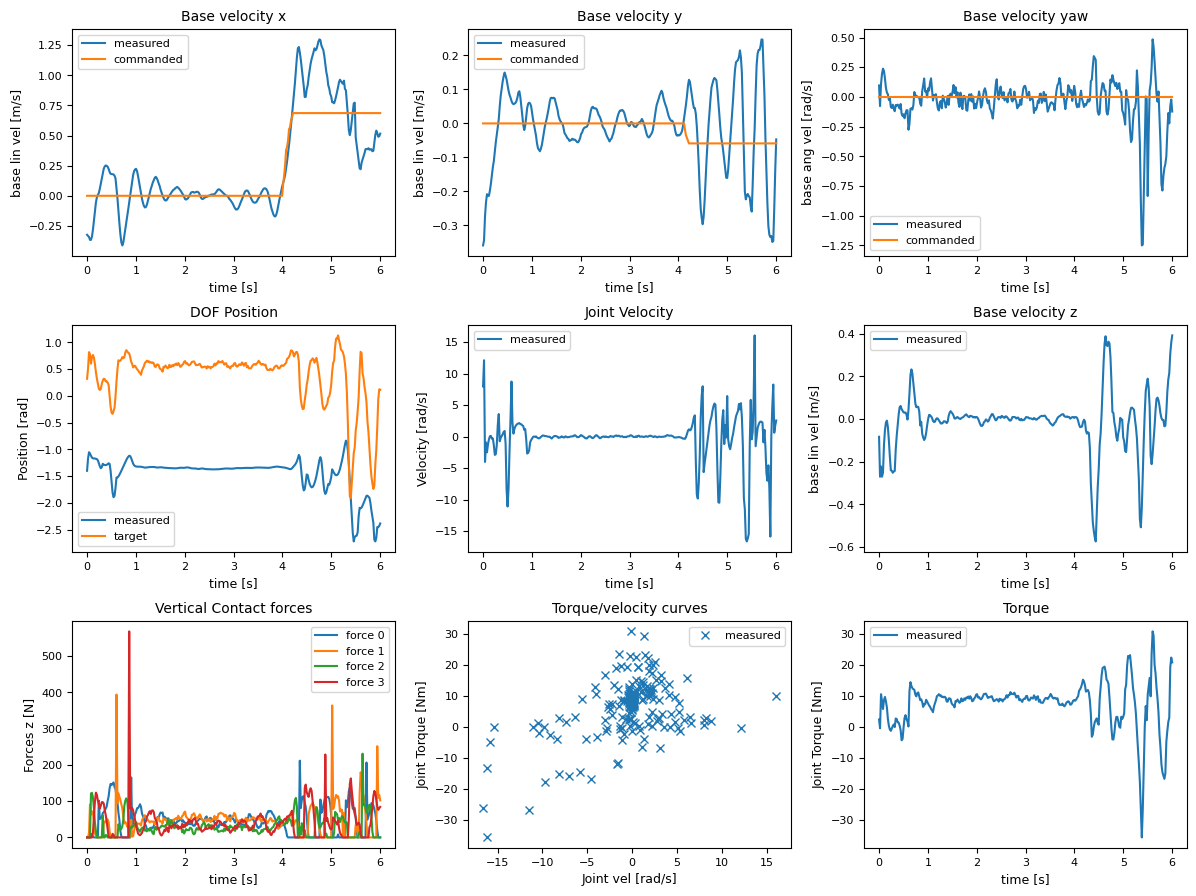
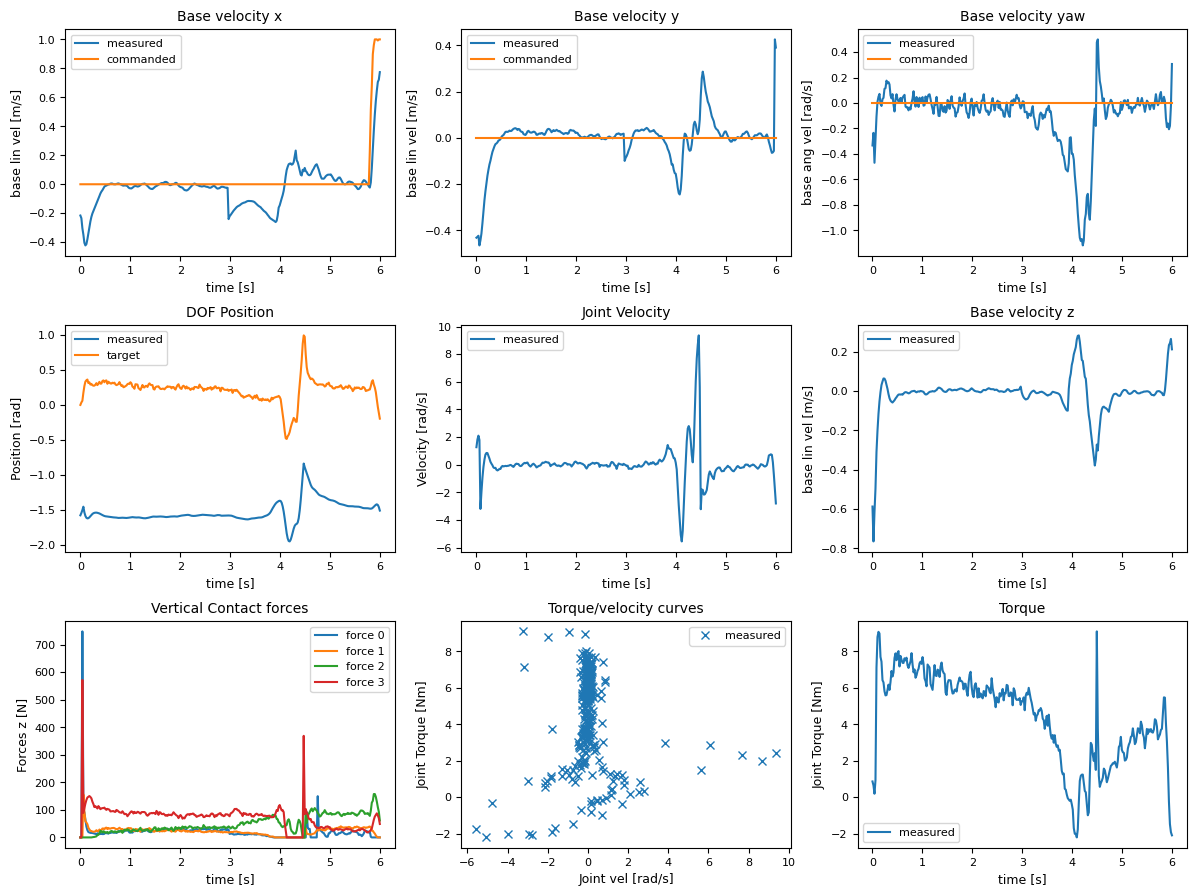
1

diff --git a/rsl_rl/algorithms/ppo_ts_depth.py b/rsl_rl/algorithms/ppo_ts_depth.py
@@ -62,10 +62,10 @@ class PPO_TSDepth(PPO):
         self.actor_critic = actor_critic
         self.actor_critic.to(self.device)
         self.storage = None  # initialized later
-        self.teacher_params = list(self.actor_critic.teacher_ac.actor.parameters()) + \
-                            list(self.actor_critic.teacher_ac.privilege_encoder.parameters()) + \
-                            list(self.actor_critic.teacher_ac.critic.parameters()) + \
-                            [self.actor_critic.teacher_ac.std]
+        self.teacher_params = list(self.actor_critic.actor.parameters()) + \
+                            list(self.actor_critic.privilege_encoder.parameters()) + \
+                            list(self.actor_critic.critic.parameters()) + \
+                            [self.actor_critic.std]
         self.teacher_optimizer = optim.Adam(self.teacher_params, lr=learning_rate)  # do not consider paramters of student encoder during RL update
         if not self.distillation:
             self.student_params = list(self.actor_critic.depth_history_encoder.parameters())
@@ -90,18 +90,16 @@ class PPO_TSDepth(PPO):
         dummy_infer = self.actor_critic.depth_history_encoder(obs[0:self.num_student], depth_image_features)
         self.transition.hidden_states = self.actor_critic.get_hidden_states()
         if not self.distillation: # teacher update, all envs are teacher envs
-            self.transition.actions = self.actor_critic.act(obs, privileged_obs).detach()
-            self.transition.actions_log_prob = self.actor_critic.teacher_ac.get_actions_log_prob(self.transition.actions).detach()
-            self.transition.action_mean = self.actor_critic.teacher_ac.action_mean.detach()
-            self.transition.action_sigma = self.actor_critic.teacher_ac.action_std.detach()
-            self.transition.values = self.actor_critic.teacher_ac.evaluate(critic_obs).detach()
+            self.transition.actions = self.actor_critic.act(obs, None, privileged_obs, 
+                                                            "teacher", None, None).detach()
         else: # student distillation, first num_student envs are student envs, the rest are teacher envs
             self.transition.actions = torch.zeros((obs.shape[0], self.storage.actions_shape[0]), device=self.device) # dummy actions for all envs
-            self.transition.actions[0:self.num_student] = self.actor_critic.act(obs[0:self.num_student], depth_image_features).detach()
-            self.transition.actions_log_prob = self.actor_critic.get_actions_log_prob(self.transition.actions).detach()
-            self.transition.action_mean = self.actor_critic.action_mean.detach()
-            self.transition.action_sigma = self.actor_critic.action_std.detach()
-            self.transition.values = self.actor_critic.evaluate(critic_obs).detach()
+            self.transition.actions[0:self.num_student] = self.actor_critic.act(obs[0:self.num_student], depth_image_features, None,
+                                                                                "student", None, None).detach()
+        self.transition.actions_log_prob = self.actor_critic.get_actions_log_prob(self.transition.actions).detach()
+        self.transition.action_mean = self.actor_critic.action_mean.detach()
+        self.transition.action_sigma = self.actor_critic.action_std.detach()
+        self.transition.values = self.actor_critic.evaluate(critic_obs).detach()
         # need to record obs and critic_obs before env.step()
         self.transition.observations = obs.detach()
         self.transition.privileged_observations = privileged_obs.detach()
@@ -136,14 +134,14 @@ class PPO_TSDepth(PPO):
                 hid_states_batch, masks_batch in generator:
                 
                 # Teacher update
-                self.actor_critic.teacher_ac.act(
-                    obs_batch, privileged_obs_batch)
-                actions_log_prob_batch = self.actor_critic.teacher_ac.get_actions_log_prob(
+                self.actor_critic.act(
+                    obs_batch, None, privileged_obs_batch, "teacher", None, None)
+                actions_log_prob_batch = self.actor_critic.get_actions_log_prob(
                     actions_batch)
-                value_batch = self.actor_critic.teacher_ac.evaluate(critic_obs_batch)
-                entropy_batch = self.actor_critic.teacher_ac.entropy
-                mu_batch = self.actor_critic.teacher_ac.action_mean
-                sigma_batch = self.actor_critic.teacher_ac.action_std
+                value_batch = self.actor_critic.evaluate(critic_obs_batch)
+                entropy_batch = self.actor_critic.entropy
+                mu_batch = self.actor_critic.action_mean
+                sigma_batch = self.actor_critic.action_std
                 
                 ## Teacher KL, adapt learning rate
                 if self.desired_kl != None and self.schedule == 'adaptive':
@@ -211,25 +209,12 @@ class PPO_TSDepth(PPO):
                     
                 with torch.no_grad(): # don't backpropagate through the encoder targets
                     unpadded_student_privileged_obs_batch = unpad_trajectories(student_privileged_obs_batch, masks_batch)
-                    latent_targets = self.actor_critic.teacher_ac.privilege_encoder(unpadded_student_privileged_obs_batch)
+                    latent_targets = self.actor_critic.privilege_encoder(unpadded_student_privileged_obs_batch)
 
                 latent_reconstruction_loss = nn.functional.mse_loss( # use mse loss
                     latent, latent_targets)
                 
-                # # update distribution for action reconstruction loss
-                # self.actor_critic.act(student_obs_batch, depth_features_batch, hid_states_batch, masks_batch)
-                # student_mu_batch = self.actor_critic.action_mean
-                
-                # with torch.no_grad(): # don't backpropagate through the encoder targets
-                #     unpadded_obs_batch = unpad_trajectories(student_obs_batch, masks_batch)
-                #     teacher_actions = self.actor_critic.teacher_ac.act_inference(
-                #         unpadded_obs_batch, unpadded_student_privileged_obs_batch
-                #     )
-                
-                # action_reconstruction_loss = nn.functional.mse_loss(
-                #     student_mu_batch, teacher_actions
-                # )
-                loss = latent_reconstruction_loss #+ action_reconstruction_loss
+                loss = latent_reconstruction_loss
                 self.student_optimizer.zero_grad()
                 loss.backward()
                 nn.utils.clip_grad_norm_(
@@ -237,11 +222,8 @@ class PPO_TSDepth(PPO):
                 self.student_optimizer.step()
                 
                 mean_latent_reconstruction_loss += latent_reconstruction_loss.item()
-                mean_action_reconstruction_loss += 0
         
         else: # student distillation
-            # freeze teacher network during student encoder update
-            self.actor_critic.teacher_ac.eval()
             # student encoder update
             generator = self.storage.student_mini_batch_generator(
                     self.num_mini_batches, self.num_learning_epochs)
@@ -250,7 +232,8 @@ class PPO_TSDepth(PPO):
                 advantages_batch, old_mu_batch, old_sigma_batch, hid_states_batch, masks_batch in generator:
                 
                 # Student RL update
-                self.actor_critic.act(obs_batch, depth_image_features_batch, hid_states_batch, masks_batch)
+                self.actor_critic.act(obs_batch, depth_image_features_batch, None, 
+                                      "student", hid_states_batch, masks_batch)
                 actions_log_prob_batch = self.actor_critic.get_actions_log_prob(
                     actions_batch)
                 value_batch = self.actor_critic.evaluate(critic_obs_batch)
@@ -302,19 +285,19 @@ class PPO_TSDepth(PPO):
                                                                 masks=masks_batch)
                     
                 with torch.no_grad(): # don't backpropagate through the encoder targets
-                    latent_targets = self.actor_critic.teacher_ac.privilege_encoder(privileged_obs_batch)
+                    latent_targets = self.actor_critic.privilege_encoder(privileged_obs_batch)
 
                 latent_reconstruction_loss = nn.functional.mse_loss( # use mse loss
                     latent, latent_targets)
                 
                 with torch.no_grad(): # don't backpropagate through the encoder targets
                     unpadded_obs_batch = unpad_trajectories(obs_batch, masks_batch)
-                    teacher_actions = self.actor_critic.teacher_ac.act_inference(
+                    teacher_actions_mean = self.actor_critic.act_teacher(
                         unpadded_obs_batch, privileged_obs_batch
                     )
                 
                 action_reconstruction_loss = nn.functional.mse_loss(
-                    mu_batch, teacher_actions
+                    mu_batch, teacher_actions_mean
                 )
                 
                 loss = self.value_loss_coef * value_loss + surrogate_loss \

diff --git a/rsl_rl/runners/ts_depth_runner.py b/rsl_rl/runners/ts_depth_runner.py
@@ -47,18 +47,18 @@ class TSDepthRunner(OnPolicyRunner):
                                                     **self.policy_cfg).to(self.device)
         if self.distillation:
             print(f"Loading teacher model from {teacher_model_path}")
-            loaded_dict = torch.load(teacher_model_path)
-            loaded_actor_critic = ActorCriticTSDepth(self.env.num_obs,
-                                                    self.env.num_actions,
-                                                    self.env.num_privileged_obs,
-                                                    self.env.num_latent_dims,
-                                                    self.env.num_critic_obs,
-                                                    self.env.depth_image_resolution,
-                                                    **self.policy_cfg).to(self.device)
-            loaded_actor_critic.load_state_dict(loaded_dict['model_state_dict'])
-            # copy actor, critic
-            actor_critic.actor.load_state_dict(loaded_actor_critic.teacher_ac.actor.state_dict())
-            actor_critic.critic.load_state_dict(loaded_actor_critic.teacher_ac.critic.state_dict())
+            # loaded_dict = torch.load(teacher_model_path)
+            # loaded_actor_critic = ActorCriticTSDepth(self.env.num_obs,
+            #                                         self.env.num_actions,
+            #                                         self.env.num_privileged_obs,
+            #                                         self.env.num_latent_dims,
+            #                                         self.env.num_critic_obs,
+            #                                         self.env.depth_image_resolution,
+            #                                         **self.policy_cfg).to(self.device)
+            # loaded_actor_critic.load_state_dict(loaded_dict['model_state_dict'])
+            # # copy actor, critic
+            # actor_critic.actor.load_state_dict(loaded_actor_critic.teacher_ac.actor.state_dict())
+            # actor_critic.critic.load_state_dict(loaded_actor_critic.teacher_ac.critic.state_dict())
         
         alg_class = eval(self.cfg["algorithm_class_name"]) # PPO_TSDepth
         self.alg: PPO_TSDepth = alg_class(actor_critic, device=self.device, 
@@ -149,10 +149,7 @@ class TSDepthRunner(OnPolicyRunner):
                 value = torch.mean(infotensor)
                 self.writer.add_scalar('Episode/' + key, value, locs['it'])
                 ep_string += f"""{f'Mean episode {key}:':>{pad}} {value:.4f}\n"""
-        if self.distillation:
-            mean_std = self.alg.actor_critic.std.mean()
-        else:
-            mean_std = self.alg.actor_critic.teacher_ac.std.mean()
+        mean_std = self.alg.actor_critic.std.mean()
         fps = int(self.num_steps_per_env * self.env.num_envs / (locs['collection_time'] + locs['learn_time']))
 
         self.writer.add_scalar('Loss/value_function', locs['mean_value_loss'], locs['it'])

diff --git a/rsl_rl/modules/actor_critic_ts_depth.py b/rsl_rl/modules/actor_critic_ts_depth.py
@@ -67,7 +67,7 @@ class ActorCriticTSDepth(nn.Module):
         privilege_encoder_layers = []
         privilege_encoder_layers.append(
             nn.Linear(num_privilege_encoder_input, privilege_encoder_hidden_dims[0]))
-        privilege_encoder_layers.append(activation)
+        privilege_encoder_layers.append(activation_fn)
         for l in range(len(privilege_encoder_hidden_dims)):
             if l == len(privilege_encoder_hidden_dims) - 1:
                 privilege_encoder_layers.append(
@@ -75,7 +75,7 @@ class ActorCriticTSDepth(nn.Module):
             else:
                 privilege_encoder_layers.append(nn.Linear(
                     privilege_encoder_hidden_dims[l], privilege_encoder_hidden_dims[l + 1]))
-                privilege_encoder_layers.append(activation)
+                privilege_encoder_layers.append(activation_fn)
         self.privilege_encoder = nn.Sequential(*privilege_encoder_layers)
 
         # Policy
@@ -164,6 +164,9 @@ class ActorCriticTSDepth(nn.Module):
 
     def get_actions_log_prob(self, actions):
         return self.distribution.log_prob(actions).sum(dim=-1)
+    
+    def act_inference(self, observations, depth_image_features, **kwargs):
+        return self.act_student(observations, depth_image_features, **kwargs)
 
     def act_student(self, observations, depth_image_features, **kwargs):
         latent = self.depth_history_encoder(observations, depth_image_features)

diff --git a/legged_gym/envs/go2/go2_ts_depth/go2_ts_depth_config.py b/legged_gym/envs/go2/go2_ts_depth/go2_ts_depth_config.py
@@ -5,7 +5,7 @@ from legged_gym.envs.base.common_cfgs import Go2RoughCommonCfg
 class Go2TSDepthCfg( LeggedRobotTSDepthCfg ):
     class env( LeggedRobotTSDepthCfg.env ):
         num_envs = 3000
-        num_camera_envs = 800
+        num_camera_envs = 1000
         num_observations = 45
         num_privileged_obs = 244
         num_latent_dims = 32
@@ -29,7 +29,8 @@ class Go2TSDepthCfg( LeggedRobotTSDepthCfg ):
         terrain_width = 8.0
         num_rows = 10  # number of terrain rows (levels)
         num_cols = 10  # number of terrain cols (types)
-        # terrain types: [smooth slope, rough slope, stairs up, stairs down, discrete]
+        # terrain types: [slope, random uniform, stairs up, stairs down, discrete,
+        #                 stepping stones, gaps, pit, parkour blocks]
         terrain_proportions = [0.2, 0.1, 0.25, 0.25, 0.2]
         
     class init_state( Go2RoughCommonCfg.init_state ):
@@ -162,6 +163,6 @@ class Go2TSDepthCfgPPO( LeggedRobotTSDepthCfgPPO ):
         run_name = ''
         experiment_name = 'go2_depth'
         save_interval = 500
-        load_run = "Mar10_11-26-01_"
+        load_run = "Mar10_21-21-51_"
         checkpoint = -1
         max_iterations = 10000

diff --git a/legged_gym/simulator/isaacgym_simulator.py b/legged_gym/simulator/isaacgym_simulator.py
@@ -162,8 +162,11 @@ class IsaacGymSimulator(Simulator):
     def push_robots(self):
         max_vel = self._cfg.domain_rand.max_push_vel_xy
         self._rand_push_vels[:, :2] = torch_rand_float(-max_vel, max_vel, (self._num_envs, 2), device=self._device)
-        self._root_states[:, 7:9] = self._rand_push_vels[:, :2] # set random base velocity in xy plane
+        self._root_states[:, 7:9] += self._rand_push_vels[:, :2] # set random base velocity in xy plane
         self._gym.set_actor_root_state_tensor(self._sim, gymtorch.unwrap_tensor(self._root_states))
+        self._last_base_lin_vel[:] = self._base_lin_vel[:]
+        self._base_lin_vel[:] = quat_rotate_inverse(
+            self._base_quat, self._root_states[:, 7:10])
     
     def push_links(self):
         max_force = self._cfg.domain_rand.max_push_force

diff --git a/legged_gym/simulator/isaaclab_simulator.py b/legged_gym/simulator/isaaclab_simulator.py
@@ -153,6 +153,8 @@ class IsaacLabSimulator(Simulator):
         cur_root_vel[:, :2] += push_vel
         root_vel = torch.cat([cur_root_vel, self._robot.data.root_link_vel_w[:, 3:6]], dim=-1)
         self._robot.write_root_link_velocity_to_sim(root_vel)
+        self._last_base_lin_vel[:] = self._base_lin_vel[:]
+        self._base_lin_vel[:] = quat_rotate_inverse(self._base_quat, self._robot.data.root_link_lin_vel_w)[:]
     
     def push_links(self):
         max_force = self._cfg.domain_rand.max_push_force

diff --git a/legged_gym/scripts/play.py b/legged_gym/scripts/play.py
@@ -141,7 +141,7 @@ def interaction_loop(env, policy, args):
         
         # Step the environment according to task type
         if "depth" in task_name:
-            actions = policy(obs_buf, privileged_obs_buf)
+            actions = policy(obs_buf, depth_image)
             obs_buf, privileged_obs_buf, depth_image, critic_obs, rews, dones, infos = env.step(actions.detach())
         elif "ts" in task_name or "cat" in task_name:
             actions = policy(obs_buf, obs_history)

diff --git a/legged_gym/simulator/genesis_simulator.py b/legged_gym/simulator/genesis_simulator.py
@@ -156,6 +156,9 @@ class GenesisSimulator(Simulator):
         self._rand_push_vels[:, :2] = push_vel.detach().clone()
         dofs_vel[:, :2] += push_vel
         self._robot.set_dofs_velocity(dofs_vel)
+        self._last_base_lin_vel[:] = self._base_lin_vel[:]
+        self._base_lin_vel[:] = quat_rotate_inverse(
+            self._base_quat, self._robot.get_vel())
     
     def push_links(self):
         max_force = self._cfg.domain_rand.max_push_force
